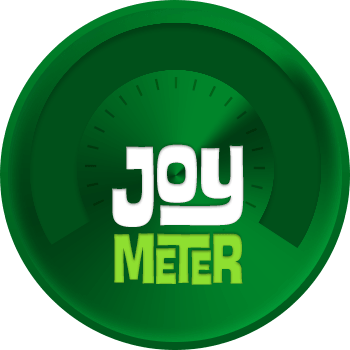
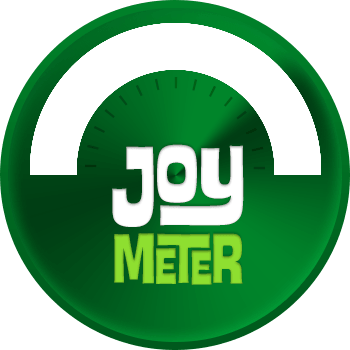
Joy meter tweaks.

Changed region(s): [[0.0857, 0.0571, 0.9143, 0.5143], [0.7143, 0.5429, 0.9143, 0.7143], [0.7143, 0.5143, 0.7429, 0.5429]]

diff --git a/public/assets/css/styles.css b/public/assets/css/styles.css
@@ -1235,7 +1235,6 @@ footer {
 .joy-meter {
   width: 350px;
   height: 350px;
-  background: url('../images/joy-meter-bg.png') no-repeat;
   position: absolute;
   left: 50%;
   bottom: -50px;
@@ -1249,22 +1248,48 @@ footer {
     position: relative;
     width: 100%;
     height: 100%; }
+  .joy-meter .background {
+    position: absolute;
+    top: 0;
+    left: 0;
+    z-index: 2; }
+  .joy-meter .gauge {
+    position: absolute;
+    z-index: 1;
+    top: 0;
+    left: 1px;
+    -webkit-transform: rotate(0deg);
+        -ms-transform: rotate(0deg);
+         -o-transform: rotate(0deg);
+            transform: rotate(0deg);
+    -webkit-transition: all 3s ease;
+         -o-transition: all 3s ease;
+            transition: all 3s ease; }
   .joy-meter .needle {
     position: absolute;
+    z-index: 3;
     left: 50%;
     margin-left: -19px;
-    -webkit-transform: rotate(-120deg);
-        -ms-transform: rotate(-120deg);
-         -o-transform: rotate(-120deg);
-            transform: rotate(-120deg);
-    -webkit-transition: all 5s ease;
-         -o-transition: all 5s ease;
-            transition: all 5s ease; }
+    -webkit-transform: rotate(-90deg);
+        -ms-transform: rotate(-90deg);
+         -o-transform: rotate(-90deg);
+            transform: rotate(-90deg);
+    -webkit-transition: all 3s ease;
+         -o-transition: all 3s ease;
+            transition: all 3s ease; }
   .joy-meter.active .needle {
-    -webkit-transform: rotate(120deg);
-        -ms-transform: rotate(120deg);
-         -o-transform: rotate(120deg);
-            transform: rotate(120deg);
-    -webkit-transition: all 5s ease;
-         -o-transition: all 5s ease;
-            transition: all 5s ease; }
+    -webkit-transform: rotate(90deg);
+        -ms-transform: rotate(90deg);
+         -o-transform: rotate(90deg);
+            transform: rotate(90deg);
+    -webkit-transition: all 3s ease;
+         -o-transition: all 3s ease;
+            transition: all 3s ease; }
+  .joy-meter.active .gauge {
+    -webkit-transform: rotate(180deg);
+        -ms-transform: rotate(180deg);
+         -o-transform: rotate(180deg);
+            transform: rotate(180deg);
+    -webkit-transition: all 3s ease;
+         -o-transition: all 3s ease;
+            transition: all 3s ease; }

diff --git a/public/assets/scss/_home-joymeter.scss b/public/assets/scss/_home-joymeter.scss
@@ -4,7 +4,6 @@
 .joy-meter {
 	width: 350px;
 	height: 350px;
-	background: url('../images/joy-meter-bg.png') no-repeat;
 	position: absolute;
 	left: 50%;
 	bottom: -50px;
@@ -17,17 +16,36 @@
 		width: 100%;
 		height: 100%;
 	}
+	.background {
+		position: absolute;
+		top: 0;
+		left: 0;
+		z-index: 2;
+	}
+	.gauge {
+		position: absolute;
+		z-index: 1;
+		top: 0;
+		left: 1px;
+		transform: rotate(0deg);
+		transition: all 3s ease;
+	}
 	.needle {
 		position: absolute;
+		z-index: 3;
 		left: 50%;
 		margin-left: -19px;
-		transform: rotate(-120deg);
-		transition: all 5s ease;
+		transform: rotate(-90deg);
+		transition: all 3s ease;
 	}
 	&.active {
 		.needle {
-			transform: rotate(120deg);
-			transition: all 5s ease;
+			transform: rotate(90deg);
+			transition: all 3s ease;
+		}
+		.gauge {
+			transform: rotate(180deg);
+			transition: all 3s ease;
 		}
 	}
 }

diff --git a/app/views/home.blade.php b/app/views/home.blade.php
@@ -48,6 +48,8 @@
 		<section class="joy-meter">
 			<div class="meter-interior">
 				<img src="{{URL::asset('assets/images/joy-meter-pointer.png')}}" alt="Gauge Needle" class="needle">
+				<img src="{{URL::asset('assets/images/joy-meter-bg.png')}}" alt="Guage" class="background">
+				<img src="{{URL::asset('assets/images/joy-meter-gauge.png')}}" alt="Guage" class="gauge">
 			</div>
 		</section>
 		<a href="#" class="products">
